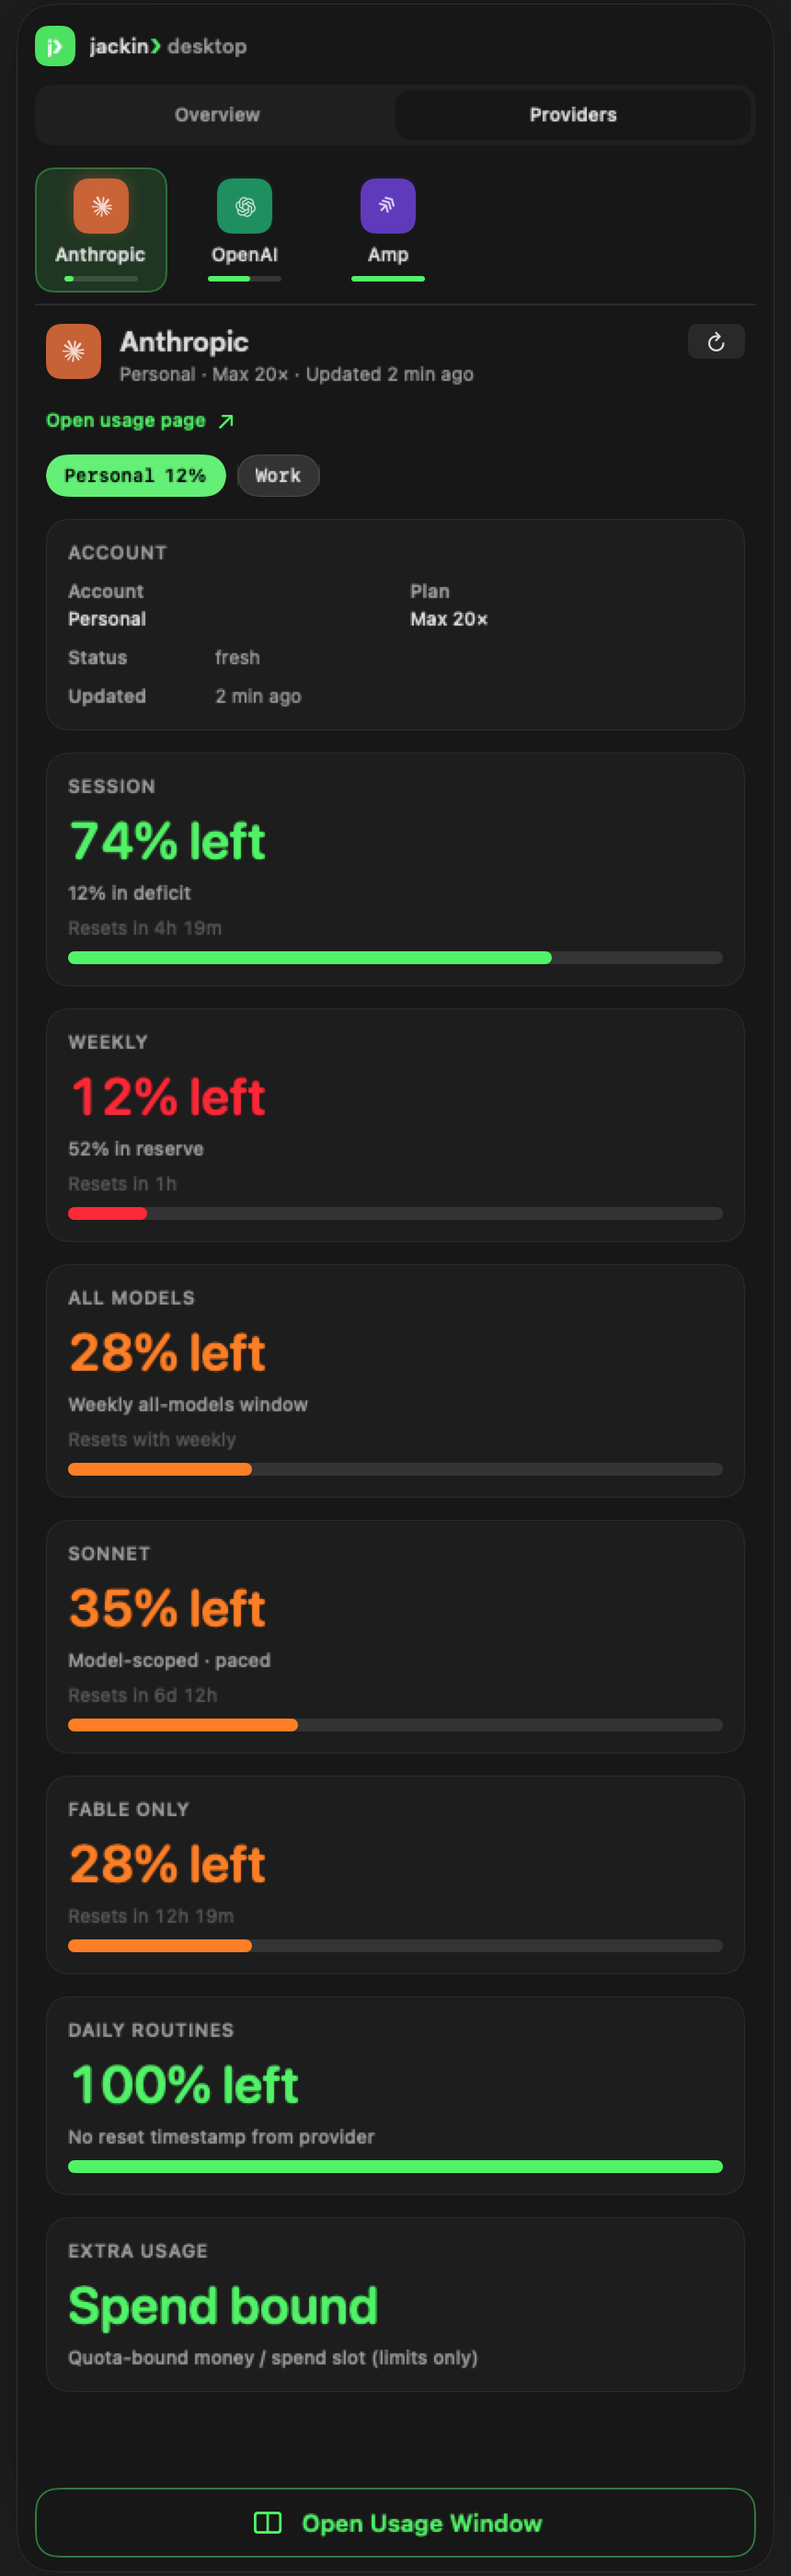
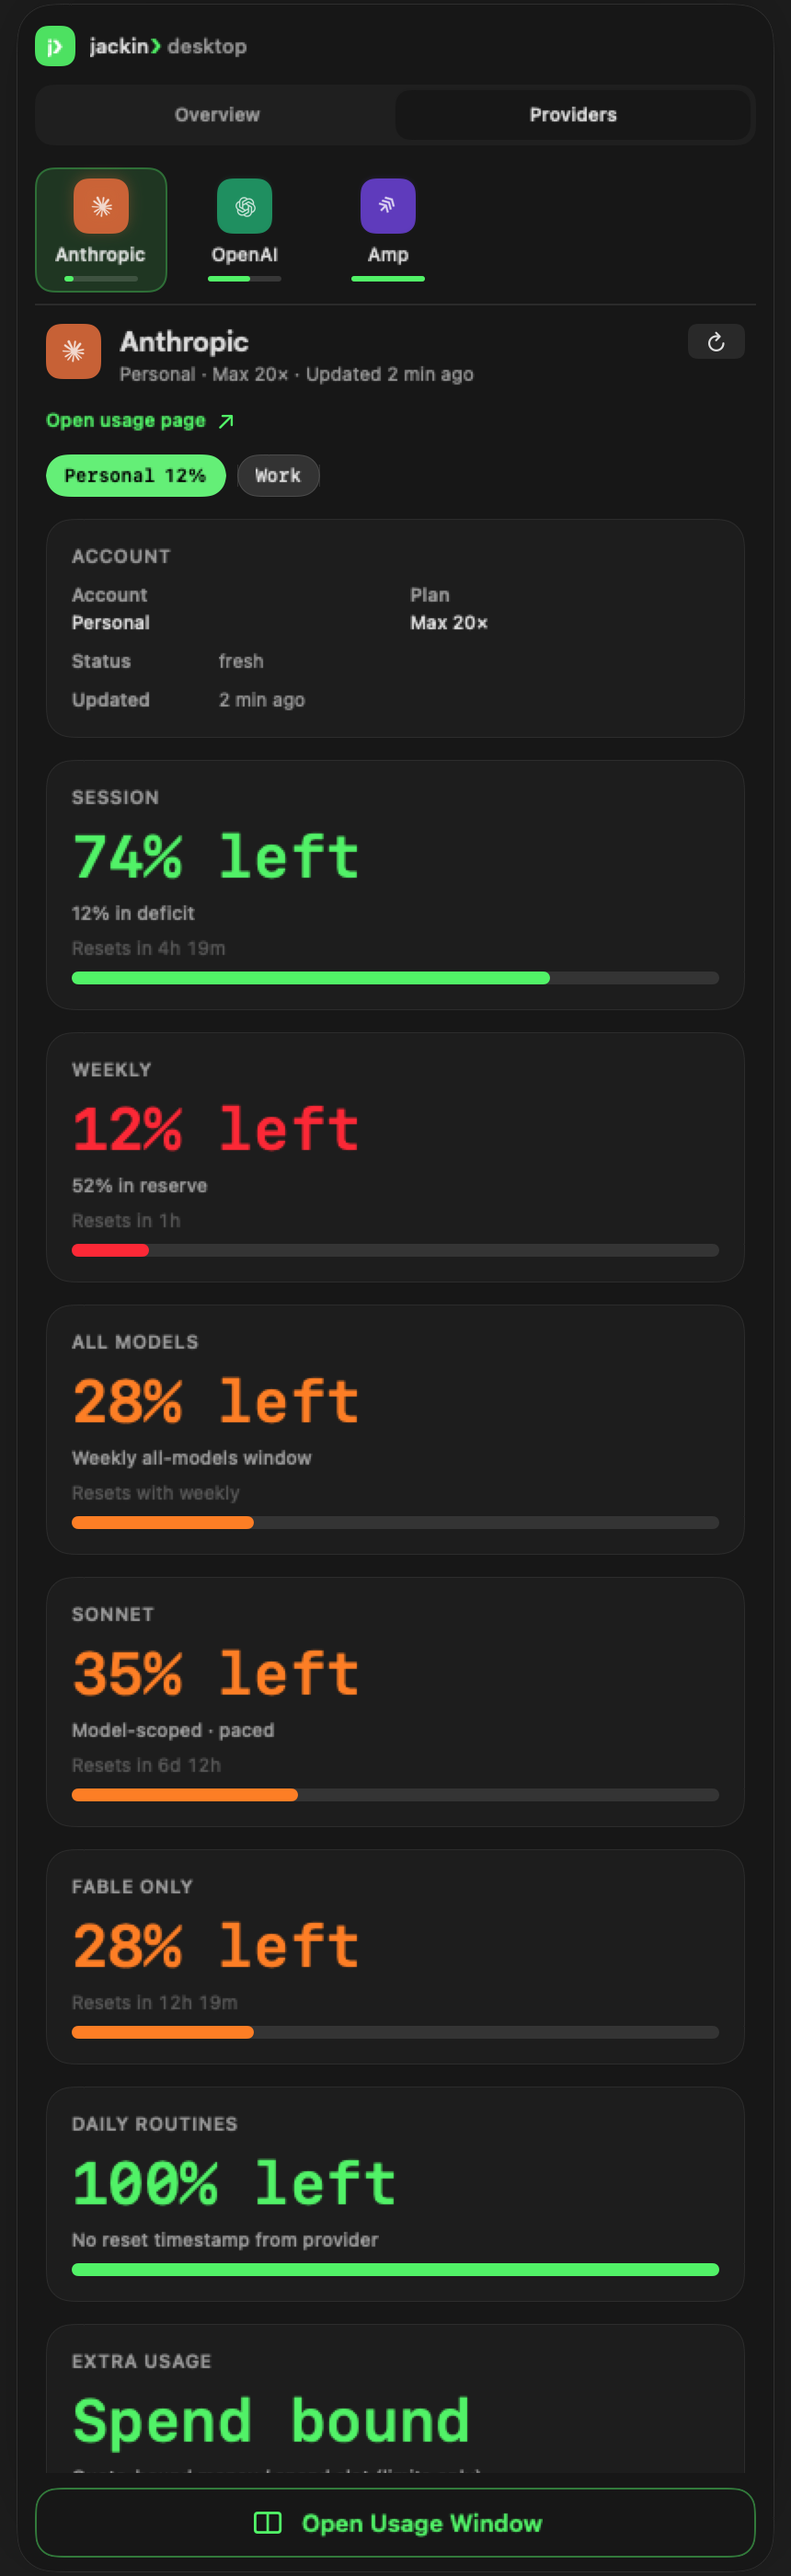
fix(desktop): match popover geometry
Use the HTML 14 pt card geometry and 32 pt monospaced metric scale across Overview and provider detail.

Changed region(s): [[0.0907, 0.1864, 0.907, 0.9632], [0.2721, 0.2486, 0.393, 0.2796], [0.514, 0.2175, 0.6047, 0.2486]]

diff --git a/native/Sources/JackinDesktop/Popover/PopoverProviderTab.swift b/native/Sources/JackinDesktop/Popover/PopoverProviderTab.swift
@@ -137,10 +137,10 @@ public struct PopoverProviderTab: View {
                 .padding(.top, 2)
             }
         }
-        .padding(12)
+        .padding(14)
         .frame(maxWidth: .infinity, alignment: .leading)
         .background {
-            GlassFallbacks.contentCardBackground()
+            GlassFallbacks.popoverContentCardBackground()
         }
         .accessibilityElement(children: .combine)
     }
@@ -301,7 +301,7 @@ public struct PopoverProviderTab: View {
 
             if let hero {
                 Text(hero)
-                    .font(.system(size: 28, weight: .semibold, design: .rounded))
+                    .font(.system(size: 32, weight: .semibold, design: .monospaced))
                     .monospacedDigit()
                     .foregroundStyle(severityTint(row.severity))
                     .minimumScaleFactor(0.7)
@@ -325,10 +325,10 @@ public struct PopoverProviderTab: View {
                 bucketMeter(meter, severity: row.severity, height: 7)
             }
         }
-        .padding(12)
+        .padding(14)
         .frame(maxWidth: .infinity, alignment: .leading)
         .background {
-            GlassFallbacks.contentCardBackground()
+            GlassFallbacks.popoverContentCardBackground()
         }
     }
 
@@ -345,10 +345,10 @@ public struct PopoverProviderTab: View {
                     .foregroundStyle(.secondary)
             }
         }
-        .padding(12)
+        .padding(14)
         .frame(maxWidth: .infinity, alignment: .leading)
         .background {
-            GlassFallbacks.contentCardBackground()
+            GlassFallbacks.popoverContentCardBackground()
         }
     }
 
@@ -365,10 +365,10 @@ public struct PopoverProviderTab: View {
                 bucketMeter(meter, severity: "normal", height: 7)
             }
         }
-        .padding(12)
+        .padding(14)
         .frame(maxWidth: .infinity, alignment: .leading)
         .background {
-            GlassFallbacks.contentCardBackground()
+            GlassFallbacks.popoverContentCardBackground()
         }
     }
 

diff --git a/native/Sources/JackinDesktop/Popover/PopoverOverviewTab.swift b/native/Sources/JackinDesktop/Popover/PopoverOverviewTab.swift
@@ -82,12 +82,17 @@ public struct PopoverOverviewTab: View {
                 accountRow(row, iconKey: glance.iconKey)
             }
         }
-        .padding(10)
+        .padding(14)
         .frame(maxWidth: .infinity, alignment: .leading)
         .background {
-            GlassFallbacks.contentCardBackground()
+            GlassFallbacks.popoverContentCardBackground()
         }
-        .clipShape(RoundedRectangle(cornerRadius: 10, style: .continuous))
+        .clipShape(
+            RoundedRectangle(
+                cornerRadius: GlassFallbacks.popoverContentCardCornerRadius,
+                style: .continuous
+            )
+        )
     }
 
     // MARK: - Account row (HTML `.account`)
@@ -187,7 +192,7 @@ public struct PopoverOverviewTab: View {
     }
 
     private func overviewBrandPlate(iconKey: String) -> some View {
-        let brand = brandChrome(for: iconKey)
+        let brand = desktopProviderBrandChrome(iconKey: iconKey)
         return ZStack {
             RoundedRectangle(cornerRadius: 7, style: .continuous)
                 .fill(brand.opacity(0.88))
@@ -208,17 +213,4 @@ public struct PopoverOverviewTab: View {
         .frame(width: 26, height: 26)
     }
 
-    /// Logo plate fills only (LG-6 / FB1-20) — not meter chrome.
-    private func brandChrome(for iconKey: String) -> Color {
-        switch iconKey {
-        case "codex": return Color(red: 0.12, green: 0.72, blue: 0.52)
-        case "claude": return Color(red: 0.86, green: 0.48, blue: 0.28)
-        case "amp": return Color(red: 0.52, green: 0.38, blue: 0.92)
-        case "grok": return Color(red: 0.35, green: 0.38, blue: 0.42)
-        case "zai": return Color(red: 0.20, green: 0.55, blue: 0.95)
-        case "kimi": return Color(red: 0.75, green: 0.35, blue: 0.55)
-        case "minimax": return Color(red: 0.90, green: 0.55, blue: 0.20)
-        default: return Color.jackinPhosphor
-        }
-    }
 }

diff --git a/native/Sources/JackinDesktop/GlassFallbacks.swift b/native/Sources/JackinDesktop/GlassFallbacks.swift
@@ -26,6 +26,8 @@ public enum GlassFallbacks {
     public static let chromeTileCornerRadius: CGFloat = 12
     /// Content-layer cards (standard materials — not glass).
     public static let contentCardCornerRadius: CGFloat = 12
+    /// Popover HTML `.group` / `.block` radius.
+    public static let popoverContentCardCornerRadius: CGFloat = 14
     public static let chipCornerRadius: CGFloat = 8
 
     // MARK: - LG-A1 Navigation glass (Tahoe)
@@ -128,6 +130,17 @@ public enum GlassFallbacks {
             .fill(.background.secondary)
             .overlay {
                 RoundedRectangle(cornerRadius: contentCardCornerRadius, style: .continuous)
+                    .strokeBorder(Color.primary.opacity(0.08), lineWidth: 0.5)
+            }
+    }
+
+    /// Popover content card — same material role, HTML-specific 14 pt geometry.
+    @ViewBuilder
+    public static func popoverContentCardBackground() -> some View {
+        RoundedRectangle(cornerRadius: popoverContentCardCornerRadius, style: .continuous)
+            .fill(.background.secondary)
+            .overlay {
+                RoundedRectangle(cornerRadius: popoverContentCardCornerRadius, style: .continuous)
                     .strokeBorder(Color.primary.opacity(0.08), lineWidth: 0.5)
             }
     }

diff --git a/native/Tools/DesktopArchitectureLint/main.swift b/native/Tools/DesktopArchitectureLint/main.swift
@@ -184,6 +184,12 @@ struct DesktopArchitectureLint {
             print("FAIL  popover account selection must use dual-theme HTML tokens")
             ok = false
         }
+        if !popoverProviderText.contains("size: 32, weight: .semibold, design: .monospaced")
+            || !popoverProviderText.contains("GlassFallbacks.popoverContentCardBackground()")
+        {
+            print("FAIL  popover metric type/card geometry must match HTML 32/14 tokens")
+            ok = false
+        }
         if ok {
             print("PASS  primary controls avoid solid phosphor slabs")
         } else {

diff --git a/advisor-plans/qi-artifacts/deltas/2026-08-10-popover-openai.md b/advisor-plans/qi-artifacts/deltas/2026-08-10-popover-openai.md
@@ -19,6 +19,7 @@
 | Detail head | official provider plate + identity + local refresh | same | Yes |
 | External usage | external-link arrow | same; no Safari glyph ambiguity | Yes |
 | Account selection | Dark bright accent + dark ink; Light deep accent + white ink | same dual-theme token roles | Yes |
+| Metric geometry | 32 pt mono hero; 14 pt padding/radius | same named popover tokens | Yes |
 | Footer CTA | centered phosphor glyph + label | same; no trailing chevron | Yes |
 | Session order | 63% → On pace → Resets 2h 14m → meter | same | **Yes** |
 | Weekly order | 57% → 13% deficit → Resets 3d → meter | same | **Yes** |

diff --git a/advisor-plans/VISUAL_QA_LOG.md b/advisor-plans/VISUAL_QA_LOG.md
@@ -51,6 +51,10 @@ Account-strip re-audit mapped HTML `--jk` / `--jk-ink` exactly by theme:
 bright Dark selection uses dark ink; deep Light selection uses white ink. This
 removes the prior white-on-bright-green mismatch.
 
+Popover geometry re-audit replaced generic 12 pt cards / 28 pt rounded heroes
+with HTML’s 14 pt content-card geometry and 32 pt monospaced metrics. Overview
+groups and every provider block now share those named tokens.
+
 ## Live
 popover-live / ctx-menu **BLOCKED** — SoTParity proves focus/menu.
 
